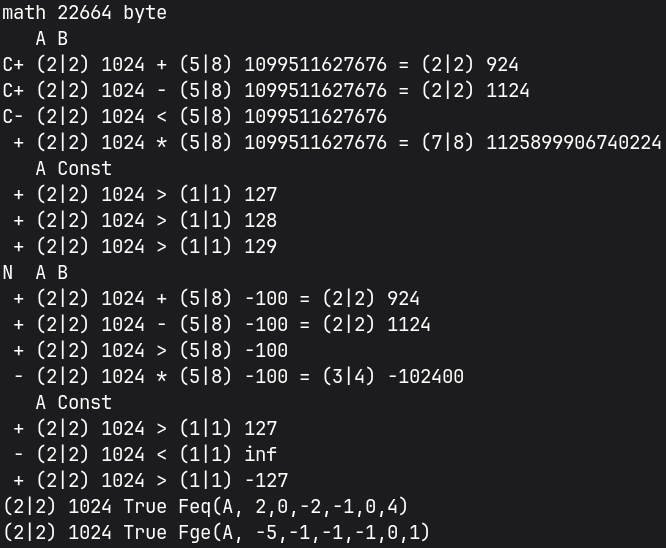
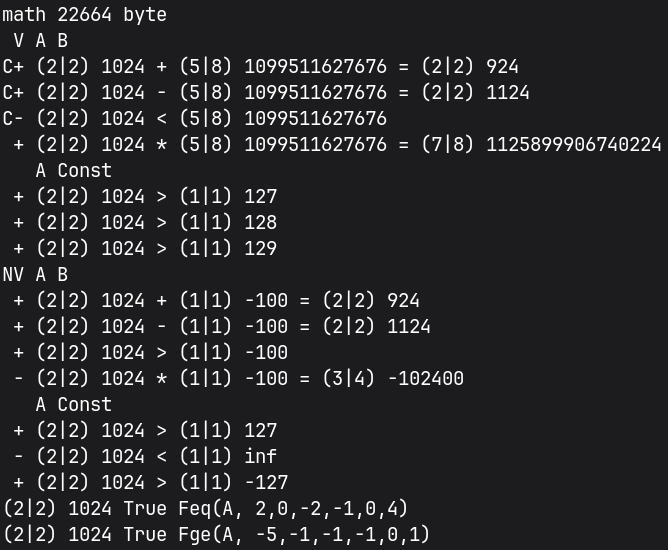
v40.3

diff --git a/math.c b/math.c
@@ -15,13 +15,13 @@ void FSWAP(an r, anu l, an a) { Mat.i = l; Mat.r = r; Mat.a = a; Mat.be = Mat.r 
   Mat.ae = Mat.a + Mat.i; Mat.j = *Mat.a++; *Mat.r++ = Mat.i ? *Mat.ae--:Mat.j; *Mat.be-- = Mat.j;
   Mat.i >>= 1; while(Mat.i--) { Mat.j = *Mat.a++; *Mat.r++ = *Mat.ae--; *Mat.be-- = Mat.j; } }
 anu FMOV(an r, anu l, an a) { Mat.i = l; Mat.r = r; Mat.a = a; if (Mat.V) {
-    Mat.ae = Mat.a + Mat.i; Mat.nb = (*Mat.ae & 128) ? 255:0; Mat.j = Mat.i;
+    Mat.ae = Mat.a + Mat.i; Mat.nb = (Mat.Nim && (*Mat.ae & 128)) ? 255:0; Mat.j = Mat.i;
     while((Mat.x = *Mat.ae--) == Mat.nb && Mat.i && !((*Mat.ae ^ Mat.nb) & 128)) Mat.i--;
     Mat.t = Mat.i; while(Mat.t-- && !*Mat.ae--) { } if (Mat.i == Mat.j) {
       if (!++Mat.t && (!Mat.x || Mat.x == 128)) { Mat.a += Mat.i; Mat.i = 0; } }
     else Mat.i += (!++Mat.t && Mat.x == 128); } Mat.j = Mat.i; Mat.t = Mat.i; if (r < a) {
-    do *Mat.r++ = *Mat.a++; while(Mat.j--); Mat.x = *--Mat.r; }
-  else { Mat.be = (Mat.r += Mat.i); Mat.ae = Mat.a + Mat.i;
+    do *Mat.r++ = *Mat.a++; while(Mat.j--); Mat.x = *--Mat.r; } else {
+    Mat.be = (Mat.r += Mat.i); Mat.ae = Mat.a + Mat.i;
     do *Mat.be-- = *Mat.ae--; while(Mat.j--); Mat.x = *Mat.r; }
   Mat.nb = (Mat.Nim && (Mat.x & 128)) ? 255:0; while(Mat.i && !*--Mat.r) Mat.i--;
   Mat.na = (Mat.i | Mat.x) ? (Mat.Nim && !Mat.i && Mat.x == 128) ? 2:0:1; return Mat.t; }

diff --git a/main.c b/main.c
@@ -11,7 +11,7 @@
 #define Obe    0    // вывод на экран {0} little endian, иначе big endian
 #define NoSign 0    // беззнаковое представление
 #define Sign   1    // знаковое представление
-#define MatV   0    // возможность увеличения разрядности
+#define MatV   1    // возможность увеличения разрядности
 #define m      128  // максимальное число атомов в числах
 
 anu la,lb;

diff --git a/README.md b/README.md
@@ -23,7 +23,7 @@
 P.s.: Блокировку убрали как только добавил сообщение о ней на главную страницу, длилась минут 20, как я заметил, и принял меры, чтобы сообщить об этом Вам. Это сообщение останется (20.09.2026 ~16.00 +7 UTF) как память, так что буду стараться вопреки невостребованности в России по данной области дабы остальной народ мог этим воспользоваться. Проанализируйте события с момента, как я вернулся в эту сферу (конец января 2026 выложен Products, готовый полностью, затем занялся Fresh в начале февраля 2026), всё это время обновлялся код и было забавно видеть на open.net новости - даже компании серьёзные - их как озарило - так что у меня нет желания и времени следить за соблюдением GPLv3 из России, если заметите нарушение лицензии, то гарантируется взаимовыгодное сотрудничество.
 
 <div align="center">
-  <h1>Результат запуска v30.7</h1>
+  <h1>Результат запуска v40.3</h1>
   
   <picture>
     <source media="(prefers-color-scheme: dark)" srcset="Plus/psb.jpeg">
